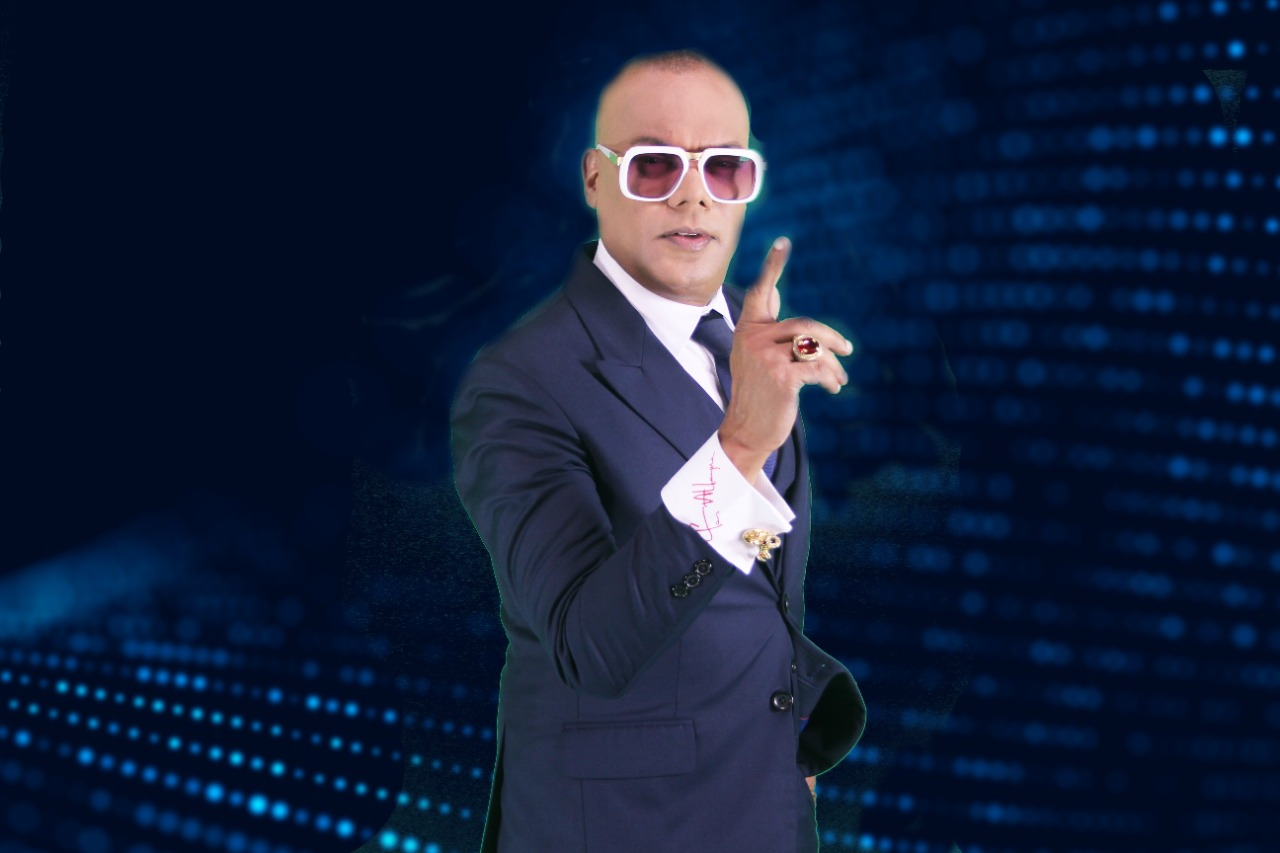
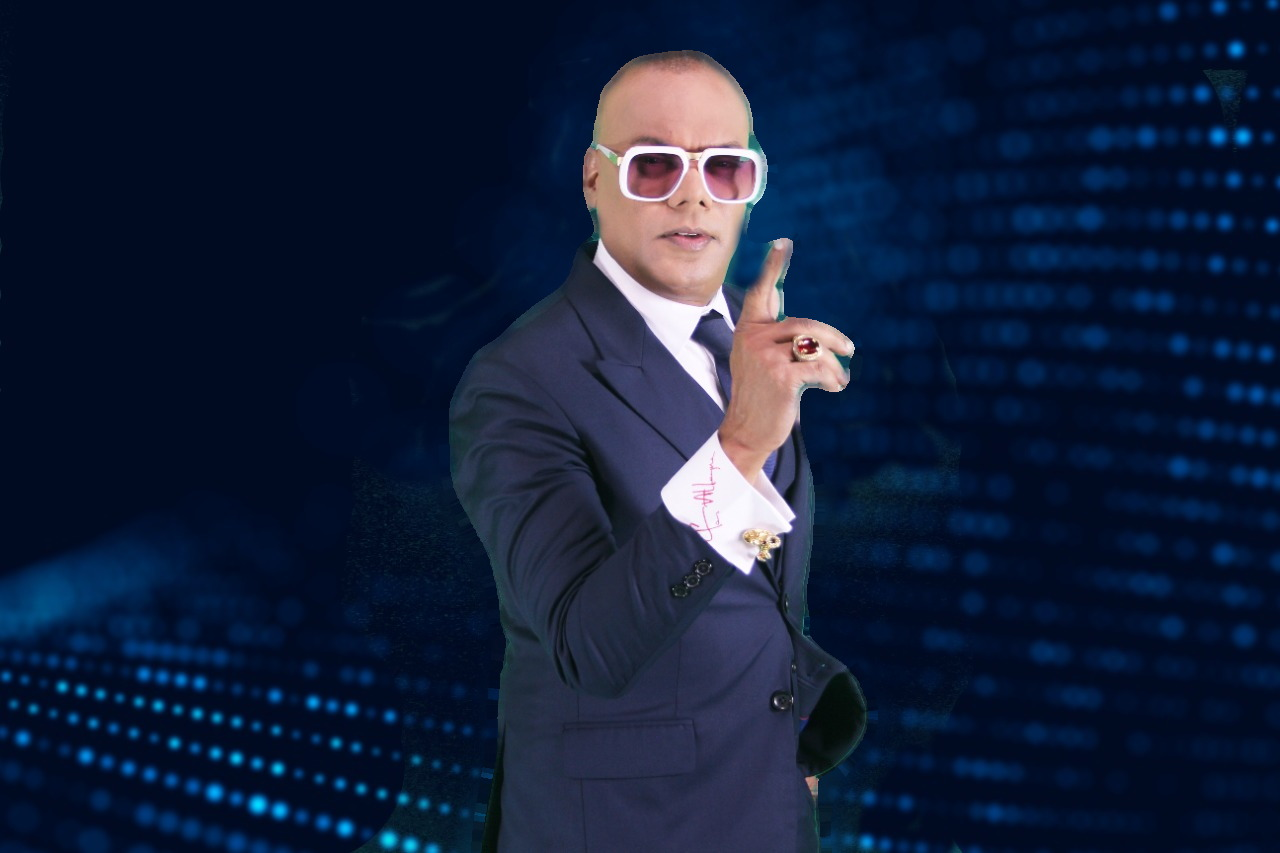
Ian Alleyne site v26 — hero cut-out outline fix, Start Free Training button

diff --git a/index.html b/index.html
@@ -319,15 +319,15 @@
   .scope img.hero-photo{position:absolute; inset:0; width:100%; height:100%; object-fit:cover; aspect-ratio:auto; z-index:1; transform:none; will-change:transform}
   .scope canvas.hero-depth{position:absolute; inset:0; width:100%; height:100%; z-index:2; display:none; will-change:transform}
   .scope figure.depth-on canvas.hero-depth{display:block}
-  /* the hero scope + reticle read as BEHIND Ian: an alpha mask derived from
-     the same depth map (cover-fitted exactly like the photo) hides the
-     overlay across his silhouette and shows it only in the background */
-  .reticle,.hero-scope-svg{
-    -webkit-mask-image:url("assets/ian1-scope-mask.png"); mask-image:url("assets/ian1-scope-mask.png");
-    -webkit-mask-size:cover; mask-size:cover;
-    -webkit-mask-position:center; mask-position:center;
-    -webkit-mask-repeat:no-repeat; mask-repeat:no-repeat;
-  }
+  /* the hero scope + reticle overlay the WHOLE frame, Ian included — a real
+     viewfinder's reticle sits over the subject ("TARGET LOCKED"). They used
+     to be hidden across his silhouette by an Ian-shaped alpha mask
+     (ian1-scope-mask.png), but the mask is pinned to his RESTING outline
+     while the photo translates and depth-warps underneath it, so the moment
+     he moved, his original cut-out line stayed printed on the background
+     and the scope lines stopped/started along a silhouette that was no
+     longer where he was — the "weird outline while he moves". No mask: the
+     faint reticle simply crosses the whole frame and can never trace him. */
   .scope img{width:100%; height:112%; object-fit:cover; aspect-ratio:4/3.4; will-change:transform; transform:scale(1.06)}
   .scope .hud{
     position:absolute; z-index:4; font-family:"JetBrains Mono",monospace; font-size:10.5px; letter-spacing:.14em;
@@ -1066,7 +1066,7 @@
         <span class="chip">SIGN-UP <b>None Needed</b></span>
       </div>
       <div class="course-start">
-        <a class="btn btn-red course-start-btn" href="#/course">Start the Free Course →</a>
+        <a class="btn btn-red course-start-btn" href="#/course">Start Free Training →</a>
         <span class="course-start-note">Opens the full course — watch on any phone or computer.</span>
       </div>
     </div>
@@ -1756,11 +1756,25 @@
     'uniform vec2 uMax;',    // displacement cap in photo-UV units (x, y)
     'void main(){',
     '  vec2 uv = (vUv - 0.5) * uCover + 0.5;',
-    '  float d = texture2D(uDepth, uv).r;',
+    // FEATHERED depth (the cut-out line fix): the raw MiDaS map steps from
+    // backdrop to Ian in a single texel, so the warp used to jump the full
+    // displacement across one pixel column — tearing a bright smeared
+    // outline along his silhouette that showed the moment he moved.
+    // Averaging five taps spread ~2 texels softens that step into a ramp:
+    // displacement now eases across several pixels at his edge instead of
+    // snapping, and no single hard line is left to see.
+    '  vec2 tx = vec2(0.0016, 0.0023);',
+    '  float d = texture2D(uDepth, uv).r * 0.4',
+    '          + texture2D(uDepth, uv + vec2( tx.x, 0.0)).r * 0.15',
+    '          + texture2D(uDepth, uv - vec2( tx.x, 0.0)).r * 0.15',
+    '          + texture2D(uDepth, uv + vec2(0.0,  tx.y)).r * 0.15',
+    '          + texture2D(uDepth, uv - vec2(0.0,  tx.y)).r * 0.15;',
     // depth floor: backdrop sits at ~0.0-0.14 in the map, Ian at ~0.82-0.93 —
     // remap so the backdrop is pinned at 0 and his silhouette reaches 1,
     // with a smoothstep so mid-depths (suit, haze) ease between the two.
-    '  float dn = clamp((d - 0.18) / 0.75, 0.0, 1.0);',
+    // The remap range is widened (0.14/0.79 vs the old 0.18/0.75) for the
+    // same reason: a gentler ramp at the silhouette, a less visible edge.
+    '  float dn = clamp((d - 0.14) / 0.79, 0.0, 1.0);',
     '  dn = dn * dn * (3.0 - 2.0 * dn);',
     // sample AGAINST the shift so near content moves WITH the cursor
     '  vec2 suv = vec2(uv.x - uMouse.x * uMax.x * dn, uv.y + uMouse.y * uMax.y * dn);',
